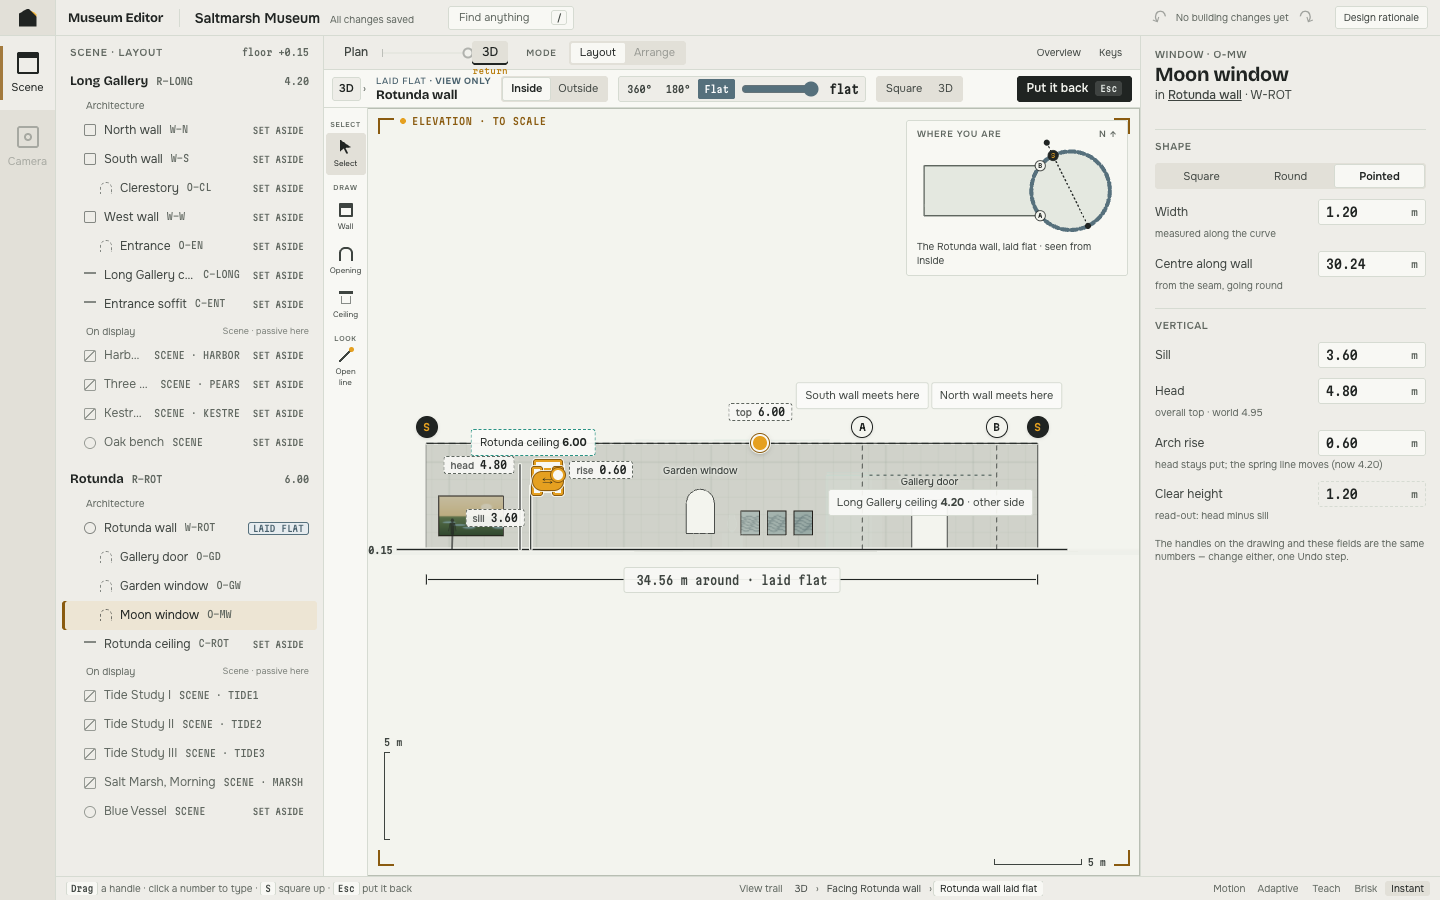
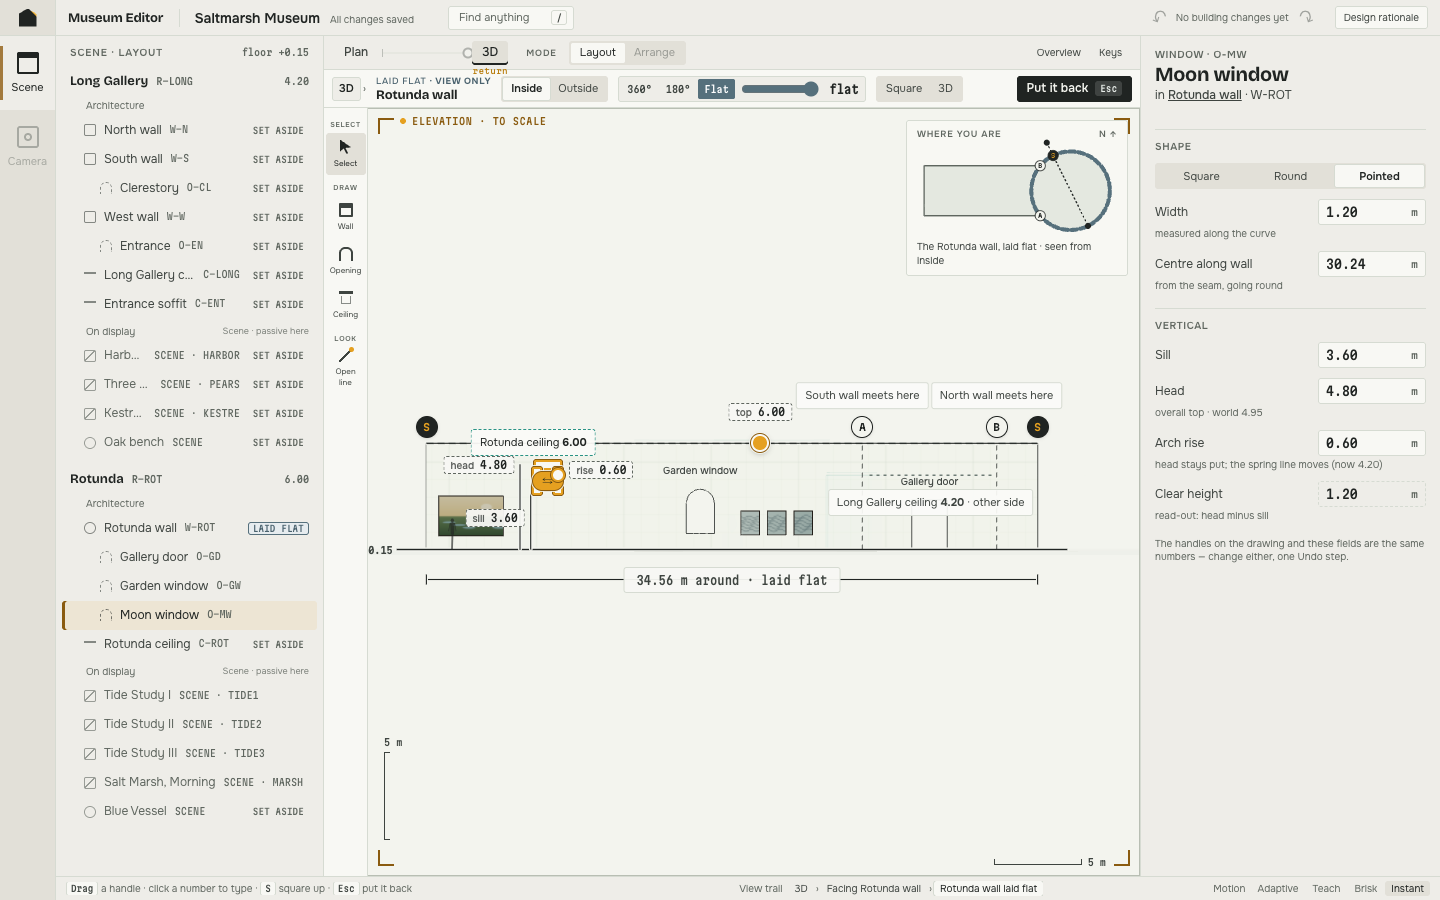
P26 demo: calibrate the drafting sheet to the vellum ground
The displaced wall rendered 21 counts darker and four counts greener than the paper it lies on, so rolling the curvature slider read as the wall changing material. Raise the sheet emissive from 0.08 to 0.36 and use the plan's section 3 grid alphas so the sheet matches the vellum ground's hue and stays just under its brightness, without returning to the baseline's blown-out white.

Generated with Codebuff

Changed region(s): [[0.2812, 0.4667, 0.7188, 0.6222]]

diff --git a/docs/roadmap/p26-spatial-depth/Final-Design-Prototype/app/stage.js b/docs/roadmap/p26-spatial-depth/Final-Design-Prototype/app/stage.js
@@ -104,14 +104,17 @@ export class Stage {
       foamHover: M({ color: COLORS.foam, emissive: sel, emissiveIntensity: 0.07 }),
       foamSel: M({ color: COLORS.foam, emissive: sel, emissiveIntensity: 0.16 }),
       // Vellum: a drafting sheet, not a white light source. The tile is one major interval with
-      // five minor cells, so the wall's generated UVs carry honest measurement spacing.
+      // five minor cells, so the wall's generated UVs carry honest measurement spacing. The
+      // emissive response is calibrated so the displaced wall renders as the same paper as the
+      // vellum ground it lies on, rather than a darker sage surface; it stays below the ground's
+      // own brightness so the sheet never glows over the page.
       sheet: (() => {
         const tex = gridTexture(COLORS.paper, COLORS.paperGrid, COLORS.paperGridMajor, 3, 5, {
-          cells: 5, majorEvery: 5, alphaMinor: 0.34, alphaMajor: 0.55,
+          cells: 5, majorEvery: 5, alphaMinor: COLORS.paperGridAlpha, alphaMajor: COLORS.paperGridMajorAlpha,
         });
         tex.anisotropy = this.renderer.capabilities.getMaxAnisotropy();
         tex.repeat.set(1, 1); // the wall's UVs are already in major-interval units
-        return M({ color: '#FFFFFF', map: tex, roughness: 1, emissive: new THREE.Color(COLORS.paper), emissiveIntensity: 0.08 });
+        return M({ color: '#FFFFFF', map: tex, roughness: 1, emissive: new THREE.Color(COLORS.paper), emissiveIntensity: 0.36 });
       })(),
       floor: M({ color: COLORS.floor }),
       ceil: M({ color: '#E9EBE4' }),

diff --git a/docs/roadmap/p26-spatial-depth/design/visual-system-refinement/qa/ACCEPTANCE.md b/docs/roadmap/p26-spatial-depth/design/visual-system-refinement/qa/ACCEPTANCE.md
@@ -38,6 +38,7 @@ bash interaction-check.sh revised
 bash journey-check.sh revised
 bash probe-roll.sh http://localhost:8826 revised        # §4 curvature-slider finding
 bash probe-roll.sh http://localhost:8826/_baseline baseline   # needs `git archive 674b2294` extracted there
+bash probe-sheet.sh http://localhost:8826 shipped       # §4 sheet calibration sweep
 agent-browser eval "$(cat contrast-check.js)"
 python3 make-compare.py                     # rebuilds compare.html
 ```
@@ -62,8 +63,8 @@ captures were produced with.
 | Paper grid tile | 10 minor cells, major every 5 | `repeat = 1200 / (10 × minor)` |
 | Grid line weights | 3 px minor / 5 px major in a 1024² tile | ≈ 0.6–1.7 CSS px apparent at the reference scale |
 | Paper grid alpha | minor 0.28, major 0.45 | plan §3 values |
-| Sheet grid alpha | minor 0.34, major 0.55 | contextual sheet, subordinate to the drawing |
-| Sheet material | `map` = paper tile, `emissive` paper @ **0.08** (was 0.45) | vellum, not a light source |
+| Sheet grid alpha | minor 0.28, major 0.45 | the plan's §3 values, identical to the vellum ground |
+| Sheet material | `map` = paper tile, `emissive` paper @ **0.36** (baseline 0.45) | calibrated to the vellum ground's own rendered brightness; see §4 |
 | Sheet UV step | open walls 5 m major / 1 m minor exactly; closed walls `L / round(L/5)` | rotunda: 4.937 m major → 0.987 m minor, u range `[0, 7]` exactly (seam closes) |
 | Perimeter | `#B8BEB3`, 1 px, `inset: 0`, `pointer-events: none`, `z-index: 1` | no layout, camera-aspect or pointer change |
 
@@ -132,10 +133,31 @@ The switch is discrete, not a gradient: `actions.js` sets `ds.sheet = u > 0.01`,
 material changes from `foam` to vellum the moment the slider leaves 0. That threshold is
 pre-existing (the baseline swap is unchanged); only the material's appearance moved.
 
-**Owner decision required.** Grid *opacity* and sheet emissive are declared calibration variables
-(plan §3 last paragraph, §4.5), so a neutral-reading sheet can be restored without amending the
-plan by raising the sheet emissive and/or lightening the sheet grid alpha. Grid *hue* is a stated
-semantic value in §3; changing it is a plan amendment. See §7.
+**Resolved — owner decision (2026-09-29): keep the plan's §3 hexes; tune the sheet.** Grid *opacity*
+and the sheet's emissive response are declared calibration variables (plan §3 last paragraph, §4.5),
+so the fix belongs on the sheet rather than in the palette. Grid *hue* stays as written in §3.
+
+Calibration target: **the displaced wall must render as the same paper as the vellum ground it lies
+on**, so rolling a wall cannot read as a change of material. Measured with the ground and every other
+wall hidden (`probe-sheet.sh`), so these are the wall's own pixels:
+
+| State | mean RGB | G−R | G−B | reading |
+| --- | --- | --- | --- | --- |
+| vellum ground, bare (target) | 240,242,236 | +2 | +6 | the plan's paper under its own light |
+| same wall as `foam`, un-rolled | 229,227,216 | −2 | +11 | the architecture reading the owner expects |
+| sheet, before (em 0.08, grid 0.34/0.55) | 219,221,214 | +2 | +7 | 21 counts darker and 4 counts greener than the wall as foam |
+| **sheet, after (em 0.36, grid 0.28/0.45)** | **238,240,233** | **+2** | **+7** | matches the ground's hue; 2 counts off its brightness |
+
+The emissive sweep (grid alpha moves the frame mean by ≤ 0.04, so emissive is the lever that
+matters): `0.08` → 219,221,214 · `0.24` → 230,232,225 · `0.30` → 234,236,229 · **`0.36` →
+238,240,233** · `0.42` → 241,243,236, against a ground of 240,242,236. `0.36` was chosen rather
+than the value that matches exactly, so the sheet never renders brighter than the page it lies on —
+which is what plan §4.5 rules out at the baseline's `0.45` (245,246,242, above the page).
+
+End-to-end, on the framed rotunda with the ground visible (`probe-roll.sh`): `u` = 0.35 moves from
+218,221,213 (0.81 % strictly-green pixels) to **237,239,232 (0.33 %)**; the wall no longer darkens
+and sags greener as the roll slider travels. The sheet's own drafting grid keeps the plan's §3
+alphas, so it is exactly as strong as the vellum ground's grid.
 
 ## 5. Journeys and interactions
 
@@ -177,23 +199,34 @@ Full table: [`contrast-table.md`](./contrast-table.md), measured from the runnin
 1. **Owner visual acceptance.** Not performed — this agent cannot see the captures. Every “required
    visible result” in plan §9.2 that is a judgement (dominance of cut geometry, restraint of the
    dimension hierarchy, character retention) is **unverified**, not passed.
-2. **Grid hue and sheet calibration — owner decision pending.** The plan's green drafting hue is
-   visible both on the vellum ground and on the contextual sheet (measured in §4); whether to keep
-   it, to tune the sheet's emissive/grid alpha back towards a neutral-reading sheet, or to amend §3
-   to a neutral technical hue, is the owner's call.
-3. **DPR 2 raster.** The capture harness exposes no desktop device-scale-factor (only phone/tablet
+2. **Grid hue and sheet calibration — resolved.** Owner chose to keep the plan's §3 hexes and tune
+   the sheet; §4 records the before/after and the calibration criterion.
+3. **Paper treatment is triggered by curvature, not by representation.** `actions.js` sets
+   `ds.sheet = u > 0.01`, and `scrubUnroll` returns early for straight walls, so a squared straight
+   wall keeps the plain `foam` surface while a squared rotunda wears vellum. Owner-reported on
+   2026-09-29; behaviour and target recorded below under *Open* at the end of this section.
+4. **DPR 2 raster.** The capture harness exposes no desktop device-scale-factor (only phone/tablet
    presets), so `capture-dpr2.sh` exercises the renderer's DPR-2 path (2× canvas backing store,
    `canvas.width = 2 × clientWidth`, identical textures/anisotropy, 0 errors) while the screenshot
    raster remains 1× CSS. CSS overlay linework is resolution-independent and unaffected.
-4. **Specimen coverage gaps.** Journeys were run at 1440 × 900 only; `prefers-reduced-motion`
+5. **Specimen coverage gaps.** Journeys were run at 1440 × 900 only; `prefers-reduced-motion`
    emulation was not captured (Instant motion is covered); the optional faint inner edge shadow on
    the perimeter was **not** added, because plan §4.2 permits it only on a comparison specimen that
    shows a material improvement and none was verified.
-5. **Optional specimen judgements** not asserted: “no moiré” at extreme zoom, and the dense-scene
+6. **Optional specimen judgements** not asserted: “no moiré” at extreme zoom, and the dense-scene
    comparison the plan asks for before accepting the stronger starting grid opacities.
-6. **Tape vs selection separation.** Per plan §3, branding, history-count and return cues keep their
+7. **Tape vs selection separation.** Per plan §3, branding, history-count and return cues keep their
    unchanged `--tape` values while selection/manipulation use the new `--ochre` family. This is a
    deliberate role split, recorded as a calibration point the owner may choose to unify.
+
+**Open — consistency of the drafting surface (owner-reported 2026-09-29, decision pending).** When a
+wall settles square, the rotunda reads as paper while a straight wall does not, so the same settled
+state presents two different surfaces. The trigger is curvature only: `applyUnroll` sets
+`ds.sheet = u > 0.01`, and `scrubUnroll` exits early for `kind !== 'arc'` (status: “The … is straight,
+so its face is already to scale”). Plan §4.5 scopes the sheet to walls “off their footprint”, which
+is why a squared straight wall never qualifies. Making the paper follow the *representation* instead
+would change what the sheet means, so the target rule is the owner's call and no change has been
+made yet.
 
 ## 8. Required repository checks
 
